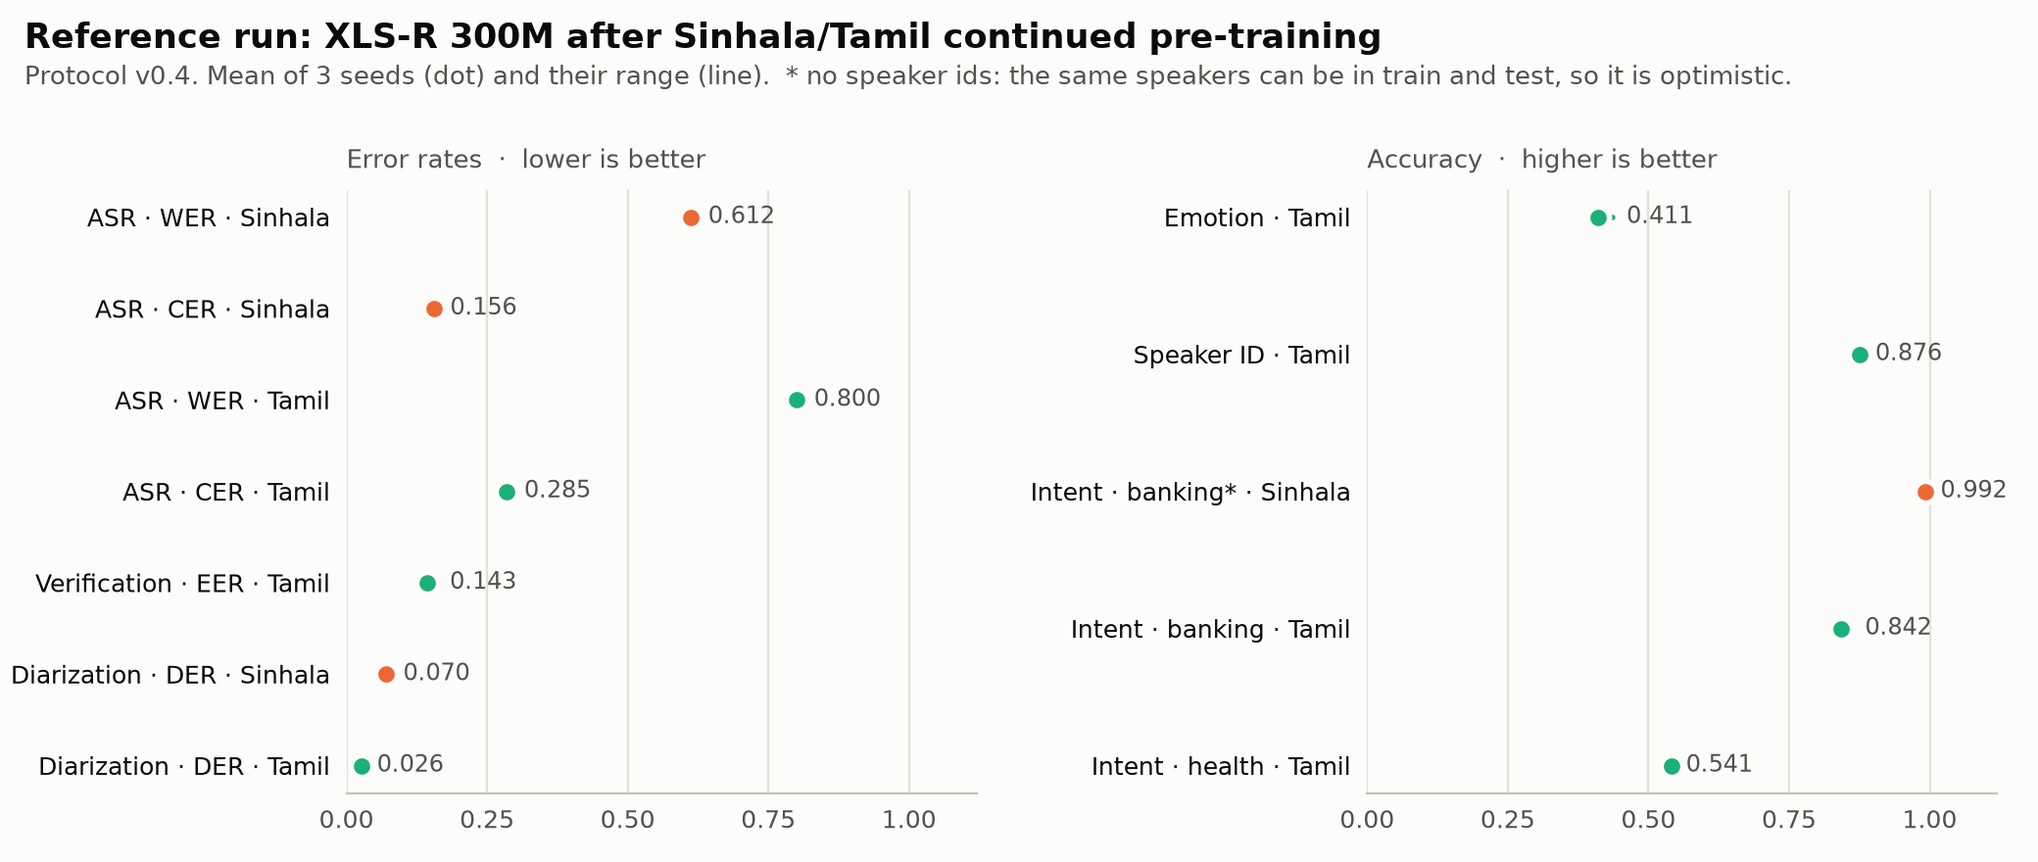
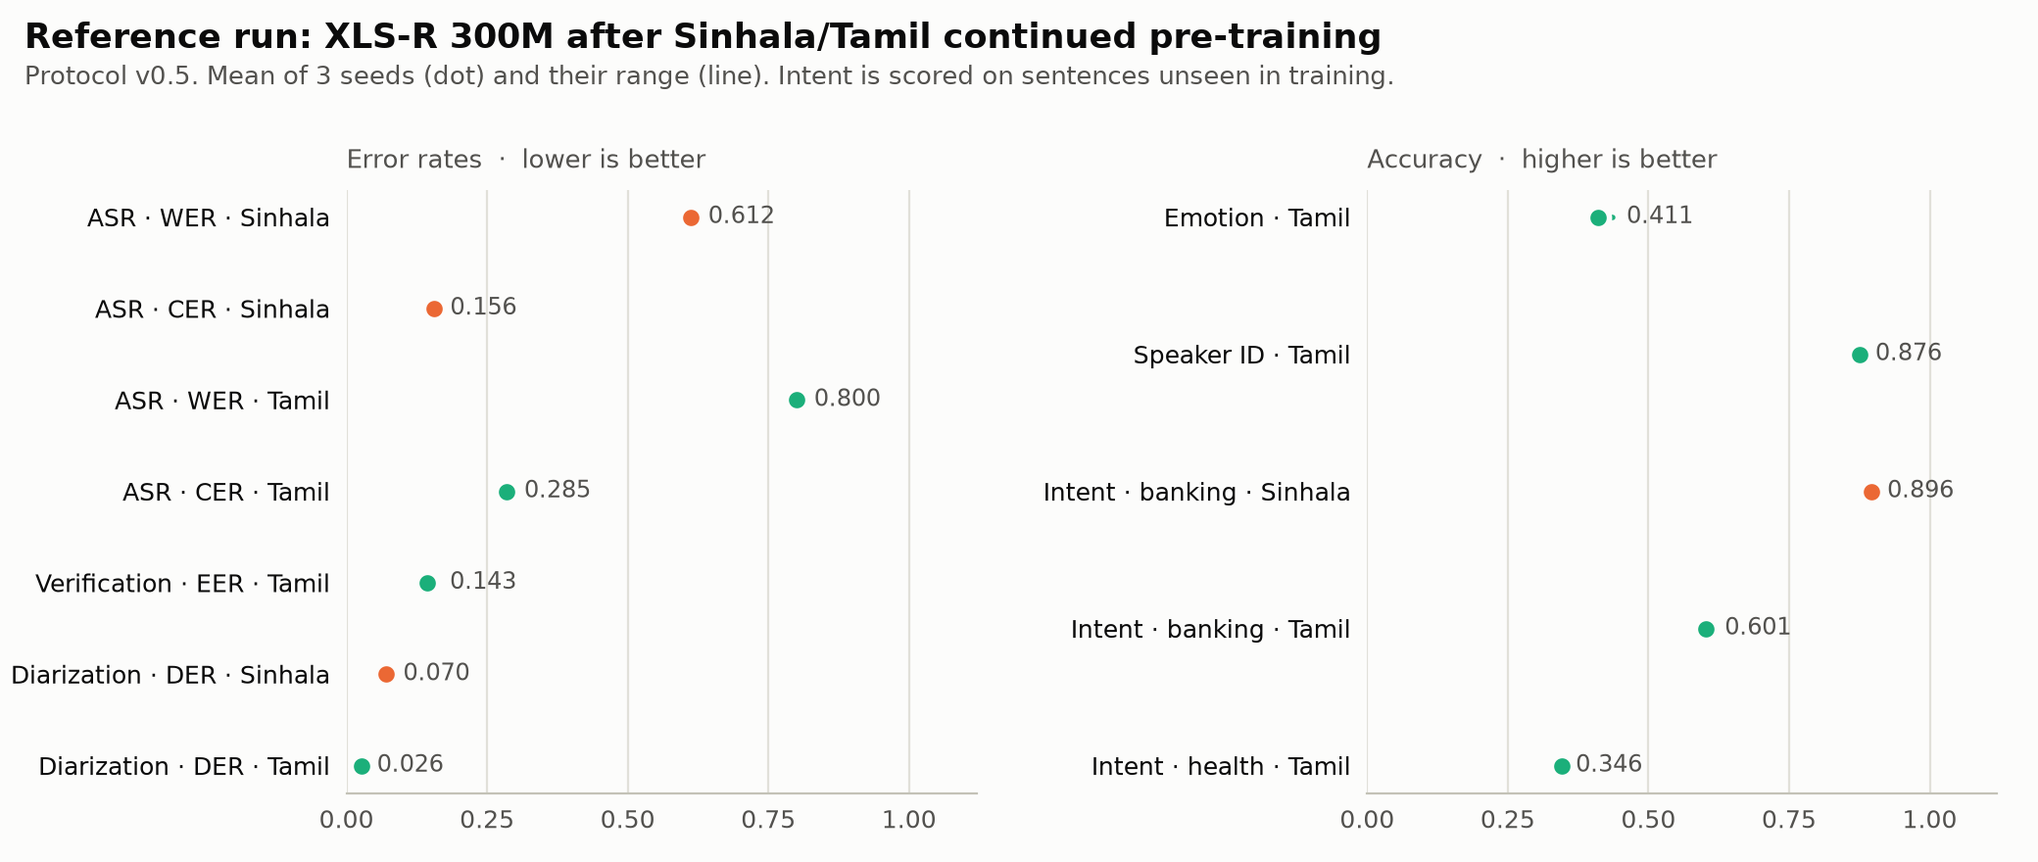
docs: protocol v0.5 reference results and sentence-disjoint intent splits; release 0.5.0
Reference run (adapted XLS-R 300M) now combines v0.3 (seven tasks), v0.4 (speaker ID)
and v0.5 (intent) results. Intent on unseen sentences: banking Sinhala 0.896 (was
0.992), banking Tamil 0.601 (0.842), health Tamil 0.346 (0.541). Docs describe the
sentence-disjoint folds, the README shows how to carry a model over to v0.5, and the
figures and CSVs are regenerated.

diff --git a/docs/scripts/make_figures.py b/docs/scripts/make_figures.py
@@ -30,7 +30,7 @@ REPO = Path(__file__).resolve().parents[2]
 OUT = REPO / "docs" / "assets"
 TABLES = REPO / "docs" / "results"
 TASKS_CSV = TABLES / "tasks.csv"
-RESULTS_CSV = TABLES / "reference_xlsr300m_copt200h_norm_v0.4.csv"
+RESULTS_CSV = TABLES / "reference_xlsr300m_copt200h_norm_v0.5.csv"
 
 THEMES = {
     "light": dict(surface="#fcfcfb", ink="#0b0b0b", ink2="#52514e", muted="#898781",
@@ -205,7 +205,7 @@ def fig_results(t, theme):
             ("sd_sinhala", "der", "Diarization · DER"), ("sd_tamil", "der", "Diarization · DER")]),
         ("Accuracy  ·  higher is better", [
             ("er_tamil", "accuracy", "Emotion"), ("sid", "accuracy", "Speaker ID"),
-            ("ic_banking_sinhala", "accuracy", "Intent · banking*"), ("ic_banking_tamil", "accuracy", "Intent · banking"),
+            ("ic_banking_sinhala", "accuracy", "Intent · banking"), ("ic_banking_tamil", "accuracy", "Intent · banking"),
             ("ic_health_tamil", "accuracy", "Intent · health")]),
     ]
     fig, axes = plt.subplots(1, 2, figsize=(10.4, 4.4), gridspec_kw=dict(wspace=0.62))
@@ -226,8 +226,7 @@ def fig_results(t, theme):
         ax.set_xticks([0, 0.25, 0.5, 0.75, 1.0])
         ax.set_title(heading, loc="left", fontsize=9.5, color=t["ink2"], pad=8)
     title(fig, t, "Reference run: XLS-R 300M after Sinhala/Tamil continued pre-training",
-          "Protocol v0.4. Mean of 3 seeds (dot) and their range (line).  * no speaker ids: the same speakers can be in train "
-          "and test, so it is optimistic.")
+          "Protocol v0.5. Mean of 3 seeds (dot) and their range (line). Intent is scored on sentences unseen in training.")
     fig.subplots_adjust(left=0.17, right=0.98, top=0.78, bottom=0.08)
     save(fig, "fig2-reference-results", theme)
 

diff --git a/README.md b/README.md
@@ -7,7 +7,7 @@ Ten tasks across six families, leak-checked splits, standard downstream heads, a
 
 [![Python](https://img.shields.io/badge/python-3.12-3776AB?logo=python&logoColor=white)](#installation)
 [![PyTorch](https://img.shields.io/badge/PyTorch-2.14%20·%20CUDA%2013.0-EE4C2C?logo=pytorch&logoColor=white)](#installation)
-[![Protocol](https://img.shields.io/badge/protocol-v0.4-2a78d6)](docs/protocol.md)
+[![Protocol](https://img.shields.io/badge/protocol-v0.5-2a78d6)](docs/protocol.md)
 [![Data](https://img.shields.io/badge/data-DVC%20·%20DagsHub-13ADC7?logo=dvc&logoColor=white)](docs/data.md)
 [![License: MIT](https://img.shields.io/badge/license-MIT-green)](LICENSE)
 
@@ -50,9 +50,9 @@ copy of one, can be benchmarked with a single command.
 | Speaker verification | `asv_tamil` | Tamil | SLCeleb | 18,202 clips · 66.8 h | 89 train · 40 test | 37,720 trials, unseen speakers | EER |
 | Speaker diarization | `sd_sinhala` | Sinhala | SiTa | 60 recordings · 10.0 h | 1–10 per recording | recording-disjoint, 24/12/24 | DER |
 | | `sd_tamil` | Tamil | SiTa | 14 recordings · 2.0 h | 2–6 per recording | recording-disjoint, 6/3/5 | DER |
-| Intent classification | `ic_banking_sinhala` | Sinhala | banking intents | 7,588 clips · 6.8 h | not recorded | stratified train/dev/test | accuracy, macro-F1 |
-| | `ic_banking_tamil` | Tamil | banking intents | 400 clips · 0.4 h | 40 | speaker-disjoint 5-fold CV | accuracy, macro-F1 |
-| | `ic_health_tamil` | Tamil | health intents | 1,453 clips · 2.0 h | 100 | speaker-disjoint 5-fold CV | accuracy, macro-F1 |
+| Intent classification | `ic_banking_sinhala` | Sinhala | banking intents | 7,588 clips · 6.8 h | not recorded | sentence-disjoint 5-fold CV | accuracy, macro-F1 |
+| | `ic_banking_tamil` | Tamil | banking intents | 400 clips · 0.4 h | 40 | sentence-disjoint 5-fold CV | accuracy, macro-F1 |
+| | `ic_health_tamil` | Tamil | health intents | 1,453 clips · 2.0 h | 100 | sentence-disjoint 5-fold CV | accuracy, macro-F1 |
 
 Dataset sources, licences and per-task details are in **[docs/tasks.md](docs/tasks.md)**.
 Three tasks in `data/` are not run, each for a data-quality reason; see
@@ -95,12 +95,12 @@ seeds, feature caching, hyperparameters and leakage checks.
 
 <picture>
   <source media="(prefers-color-scheme: dark)" srcset="docs/assets/fig2-reference-results-dark.png">
-  <img alt="Reference run of XLS-R 300M after continued pre-training on 200 h of Sinhala and Tamil, protocol v0.4. Error rates: ASR WER 0.612 Sinhala and 0.800 Tamil, CER 0.156 and 0.285, verification EER 0.143, diarization DER 0.070 Sinhala and 0.026 Tamil. Accuracy: emotion 0.411, speaker ID 0.876, intent banking 0.992 Sinhala and 0.842 Tamil, intent health 0.541." src="docs/assets/fig2-reference-results-light.png">
+  <img alt="Reference run of XLS-R 300M after continued pre-training on 200 h of Sinhala and Tamil, protocol v0.5. Error rates: ASR WER 0.612 Sinhala and 0.800 Tamil, CER 0.156 and 0.285, verification EER 0.143, diarization DER 0.070 Sinhala and 0.026 Tamil. Accuracy: emotion 0.411, speaker ID 0.876, intent banking 0.896 Sinhala and 0.601 Tamil, intent health 0.346." src="docs/assets/fig2-reference-results-light.png">
 </picture>
 
 **XLS-R 300M after continued pre-training** on 200 h of Sinhala and Tamil
 ([Model-Training-Pipeline](https://github.com/EchoVerge-Labs/Model-Training-Pipeline),
-checkpoint 9000), **protocol v0.4**, 3 seeds:
+checkpoint 9000), **protocol v0.5**, 3 seeds:
 
 | Task | Language | Metric | Mean ± s.d. |
 |---|---|---|---|
@@ -111,16 +111,15 @@ checkpoint 9000), **protocol v0.4**, 3 seeds:
 | Speaker verification | Tamil | EER ↓ | 0.143 ± 0.016 |
 | Speaker diarization | Sinhala | DER ↓ | 0.070 ± 0.007 |
 | Speaker diarization | Tamil | DER ↓ | 0.026 ± 0.003 |
-| Intent · banking | Sinhala | accuracy ↑ | 0.992 ± 0.002 \* |
-| Intent · banking | Tamil | accuracy ↑ | 0.842 ± 0.017 |
-| Intent · health | Tamil | accuracy ↑ | 0.541 ± 0.000 |
+| Intent · banking | Sinhala | accuracy ↑ / macro-F1 ↑ | 0.896 ± 0.003 / 0.855 ± 0.000 |
+| Intent · banking | Tamil | accuracy ↑ / macro-F1 ↑ | 0.601 ± 0.008 / 0.465 ± 0.001 |
+| Intent · health | Tamil | accuracy ↑ / macro-F1 ↑ | 0.346 ± 0.000 / 0.334 ± 0.001 |
 
-\* No speaker information exists for this dataset, so the same speakers can appear in train
-and test, which flatters the score.
+Intent is scored on sentences never heard in training (v0.5).
 
 These are reference numbers for one model. All ten models benchmarked so far (five frozen
 encoders and their continued-pre-training counterparts) are compared in the
-[`slsb-v0.4` experiment on DagsHub](https://dagshub.com/EchoVerge-LABS/SLSB-benchmark/experiments),
+[`slsb-v0.5` experiment on DagsHub](https://dagshub.com/EchoVerge-LABS/SLSB-benchmark/experiments),
 one row per model. Scores from different protocol versions are not comparable. Every number
 above is read from [`docs/results/`](docs/results/); see [docs/results.md](docs/results.md).
 
@@ -129,7 +128,7 @@ above is read from [`docs/results/`](docs/results/); see [docs/results.md](docs/
 ### Installation
 
 ```bash
-pip install git+https://github.com/EchoVerge-Labs/SLSB-benchmark.git@v0.4.0
+pip install git+https://github.com/EchoVerge-Labs/SLSB-benchmark.git@v0.5.0
 # or, from a clone, with test and lint tools
 pip install -e ".[dev]"
 ```
@@ -181,9 +180,9 @@ experiment table is the comparison table:
 
 ```bash
 export DAGSHUB_USER=<user> DAGSHUB_TOKEN=<token>
-python scripts/log_results.py results/v0.4/wavlm_large \
+python scripts/log_results.py results/v0.5/wavlm_large \
     --name wavlm-large --kind frozen --family wavlm --base-model microsoft/wavlm-large
-python scripts/log_results.py results/v0.4/xlsr300m_copt200h_norm \
+python scripts/log_results.py results/v0.5/xlsr300m_copt200h_norm \
     --name xlsr300m-copt200h-norm --kind adapted --family xlsr \
     --base-model facebook/wav2vec2-xls-r-300m --checkpoint 9000 --pretrain-hours 200
 ```
@@ -191,14 +190,16 @@ python scripts/log_results.py results/v0.4/xlsr300m_copt200h_norm \
 A model already logged under a protocol is refused unless `--replace` is given. Prefer this
 over `slsb run --mlflow-uri`, which logs one run per task and seed.
 
-**Moving a model from v0.3 to v0.4** needs only a speaker-ID re-run (v0.4 changed nothing
-else); `--carry-over` copies the other nine tasks from the model's `slsb-v0.3` run:
+**Moving a model to the next protocol** needs only a re-run of the tasks it changed;
+`--carry-over` copies the other tasks from the model's run under the previous protocol.
+v0.4 changed only speaker ID (carried over from `slsb-v0.3`), v0.5 only the three intent
+tasks (carried over from `slsb-v0.4`, so log v0.4 first):
 
 ```bash
-slsb run --upstream <model> --tasks sid --seeds 0,1,2 --data-dir data --params params.yaml \
-         --out results/v0.4/<folder>_sid
-python scripts/log_results.py results/v0.4/<folder>_sid --carry-over \
-    --name <same name as in slsb-v0.3> --kind ... --family ... --base-model ...
+slsb run --upstream <model> --tasks ic --seeds 0,1,2 --data-dir data --params params.yaml \
+         --out results/v0.5/<folder>_ic
+python scripts/log_results.py results/v0.5/<folder>_ic --carry-over \
+    --name <same name as in slsb-v0.4> --kind ... --family ... --base-model ...
 ```
 
 ## Repository layout
@@ -214,7 +215,7 @@ python scripts/log_results.py results/v0.4/<folder>_sid --carry-over \
 │   ├── metrics/, utils/       # WER/CER/EER/accuracy, datasets and splits, MLflow logging
 ├── data_prep/                 # builds data/ from each source; make_splits.py writes split_v2.json
 ├── data.dvc                   # pointer to the versioned data/ on DagsHub
-├── params.yaml                # upstream + downstream-head hyperparameters (the v0.4 protocol)
+├── params.yaml                # upstream + downstream-head hyperparameters (the v0.5 protocol)
 ├── configs/tasks/             # one card per task family
 ├── docs/                      # protocol, tasks, data, results; figures and their source CSVs
 ├── tests/                     # unit and protocol tests (no GPU, data or network needed)
@@ -247,8 +248,9 @@ python scripts/log_results.py results/v0.4/<folder>_sid --carry-over \
   single speaker, so no speaker-disjoint split) and `er_sinhala` (broken source metadata).
 - **Several test sets are small:** Tamil diarization has 5 test recordings, and Tamil ASR
   has 5 test speakers. Their scores move more between seeds and between models.
-- **`ic_banking_sinhala` has no speaker information,** so its split is random and its
-  score is optimistic.
+- **Intent test sets are unseen sentences, not unseen speakers.** Since v0.5 every intent
+  fold holds out whole prompts, so the same person can read in train and test
+  (`ic_banking_sinhala` records no speakers at all).
 - **No pre-training contamination check yet.** Nothing verifies that an upstream never
   saw a test clip during pre-training. SLCeleb is YouTube audio, so YouTube-based
   pre-training corpora could overlap with it.
@@ -275,7 +277,7 @@ and BibTeX from it.
              S. A. Talagala and Uthayasanker Thayasivam},
   title   = {{SLSB}: {Sinhala} \& {Lankan-Tamil} Speech Benchmark},
   url     = {https://github.com/EchoVerge-Labs/SLSB-benchmark},
-  version = {0.4.0},
+  version = {0.5.0},
   year    = {2026}
 }
 ```

diff --git a/docs/results.md b/docs/results.md
@@ -5,9 +5,10 @@
 **Upstream:** XLS-R 300M (`facebook/wav2vec2-xls-r-300m`) after continued pre-training on
 200 h of Sinhala and Tamil with normalised audio, in
 [Model-Training-Pipeline](https://github.com/EchoVerge-Labs/Model-Training-Pipeline),
-checkpoint 9000. **Protocol** v0.4, **seeds** 0, 1, 2, on one NVIDIA GB10 GPU. Nine tasks
-were run under v0.3 (slsb 0.3.0); speaker identification, the only task v0.4 changed, was
-re-run under v0.4 (slsb 0.4.0). A full run takes about 2 hours.
+checkpoint 9000. **Protocol** v0.5, **seeds** 0, 1, 2, on one NVIDIA GB10 GPU. Seven tasks
+were run under v0.3 (slsb 0.3.0), speaker identification under v0.4 (slsb 0.4.0) and the
+three intent tasks under v0.5 (slsb 0.5.0); each later protocol changed only the tasks it
+re-ran. A full run takes about 2 hours.
 
 <picture>
   <source media="(prefers-color-scheme: dark)" srcset="assets/fig2-reference-results-dark.png">
@@ -27,25 +28,24 @@ re-run under v0.4 (slsb 0.4.0). A full run takes about 2 hours.
 | Speaker verification | Tamil | EER ↓ | 0.143 ± 0.016 |
 | Speaker diarization | Sinhala | DER ↓ | 0.070 ± 0.007 |
 | Speaker diarization | Tamil | DER ↓ | 0.026 ± 0.003 |
-| Intent · banking | Sinhala | Accuracy ↑ | 0.992 ± 0.002 \* |
-| Intent · banking | Sinhala | Macro-F1 ↑ | 0.992 ± 0.002 \* |
-| Intent · banking | Tamil | Accuracy ↑ | 0.842 ± 0.017 |
-| Intent · banking | Tamil | Macro-F1 ↑ | 0.827 ± 0.018 |
-| Intent · health | Tamil | Accuracy ↑ | 0.541 ± 0.000 |
-| Intent · health | Tamil | Macro-F1 ↑ | 0.530 ± 0.001 |
+| Intent · banking | Sinhala | Accuracy ↑ | 0.896 ± 0.003 |
+| Intent · banking | Sinhala | Macro-F1 ↑ | 0.855 ± 0.000 |
+| Intent · banking | Tamil | Accuracy ↑ | 0.601 ± 0.008 |
+| Intent · banking | Tamil | Macro-F1 ↑ | 0.465 ± 0.001 |
+| Intent · health | Tamil | Accuracy ↑ | 0.346 ± 0.000 |
+| Intent · health | Tamil | Macro-F1 ↑ | 0.334 ± 0.001 |
 
-\* Optimistic: no speaker information, so the same speakers can be in train and test.
-
-Per-seed values are in [`results/reference_xlsr300m_copt200h_norm_v0.4.csv`](results/reference_xlsr300m_copt200h_norm_v0.4.csv).
-The other models are compared on DagsHub, in the `slsb-v0.4` experiment.
+Per-seed values are in [`results/reference_xlsr300m_copt200h_norm_v0.5.csv`](results/reference_xlsr300m_copt200h_norm_v0.5.csv).
+The other models are compared on DagsHub, in the `slsb-v0.5` experiment.
 
 ### Reading these numbers
 
 - **Diarization DER is almost entirely speaker confusion.** With oracle speech regions,
   missed speech is about 1% (overlap) and false alarm is 0.
-- **Intent · banking Sinhala is near ceiling** (0.97–0.99 for every model benchmarked) and
-  separates models poorly; speaker identification, near ceiling under v0.3, is no longer
-  (0.84–0.89 under v0.4).
+- **No task is at ceiling any more.** Speaker identification scored 0.99+ for every model
+  under v0.3 (test clips shared videos with training) and intent · banking Sinhala 0.97–0.99
+  under v0.4 (test sentences were in training). On unseen videos and unseen sentences they
+  now score 0.84–0.89 and about 0.90.
 - **Run-to-run variation.** ASR's BiLSTM uses non-deterministic GPU kernels, so re-running
   the same seed moves WER by about ±0.01. Differences smaller than that, or than the
   seed s.d., should not be read as real.
@@ -59,6 +59,7 @@ The other models are compared on DagsHub, in the `slsb-v0.4` experiment.
 | v0.1 → anything later | **No.** v0.1 trained one linear layer for 10 epochs with no dev set, and its splits leaked (Sinhala ASR test speakers in training; verification trained on its own test speakers). |
 | v0.2 → v0.3 | **No.** v0.3 layer-normalises every upstream layer, which changes every task's input. |
 | v0.3 → v0.4 | **Yes, except speaker identification**, which v0.4 splits by unseen videos. Every other task is identical, which is why v0.4 runs may carry them over (`log_results.py --carry-over`). |
+| v0.4 → v0.5 | **Yes, except the three intent tasks**, which v0.5 splits by unseen sentences. Every other task is identical and carried over from `slsb-v0.4`. |
 
 See the [changelog](../CHANGELOG.md) for each version's changes.
 
@@ -74,5 +75,6 @@ python docs/scripts/make_figures.py --refresh results/<run> [results/<rerun>] --
 ```
 
 `--refresh` takes one or more run directories; a later one replaces an earlier one task by
-task. The reference run combines `results/v0.3/xlsr300m_copt200h_norm` (nine tasks) and
-`results/v0.4/xlsr300m_copt200h_norm_sid` (speaker identification).
+task. The reference run combines `results/v0.3/xlsr300m_copt200h_norm` (seven tasks),
+`results/v0.4/xlsr300m_copt200h_norm_sid` (speaker identification) and
+`results/v0.5/xlsr300m_copt200h_norm_ic` (intent).

diff --git a/docs/protocol.md b/docs/protocol.md
@@ -1,4 +1,4 @@
-# Protocol (v0.4)
+# Protocol (v0.5)
 
 How SLSB turns a frozen encoder into a set of scores. Everything here is implemented in
 [`src/slsb/`](../src/slsb), and every hyperparameter lives in [`params.yaml`](../params.yaml).
@@ -55,8 +55,8 @@ with the data. Every upstream and every run seed uses the same partition.
 | Task | Partition | Rule |
 |---|---|---|
 | ASR | train / dev / test, 70 / 10 / 20 | speaker-disjoint. `asr_sinhala`'s speakers come from OpenSLR-52's `utt_spk_text.tsv`; `asr_tamil`'s v0.1 test set is kept because it was already speaker-disjoint |
-| Emotion, intent with speakers | 5 folds | speaker-disjoint. For fold *k*: test = fold *k*, dev = fold *k*+1, train = the rest; reported as the mean over folds |
-| Intent without speakers | train / dev / test | stratified random (`ic_banking_sinhala`, flagged `random_stratified_no_speaker_ids`) |
+| Emotion | 5 folds | speaker-disjoint. For fold *k*: test = fold *k*, dev = fold *k*+1, train = the rest; reported as the mean over folds |
+| Intent | 5 folds, as for emotion | **sentence**-disjoint (v0.5): each intent's prompts are dealt round-robin over the folds, so a test prompt is never heard in training or dev selection. Speakers may recur across folds |
 | Speaker identification | train / dev / test | closed set: every speaker is a class. Split by source **video**: per speaker, ~20% of its videos are test and one is dev, so test clips never share a recording session with training (v0.4) |
 | Speaker verification | trial list = test | trained on SLCeleb dev speakers, none of them in the trials; dev trials (5,400, balanced) come from 9 held-out training speakers |
 | Speaker diarization | train / dev / test, 40 / 20 / 40 | recording-disjoint |

diff --git a/KNOWN_ISSUES.md b/KNOWN_ISSUES.md
@@ -56,13 +56,14 @@ pre-training audio. SLCeleb (ASV/SID) is YouTube audio, so a continued-pretraini
 corpus built from YouTube could contain the same videos. An audio-fingerprint
 check against each pre-training set is still to be built.
 
-## `ic_banking_sinhala` — no speaker ids
+## Intent classification — speakers may recur across folds
 
-The Sinhala banking intent data names files by recording timestamp only, so its
-split cannot be speaker-disjoint (`random_stratified_no_speaker_ids`): the same
-person can appear in train and test, which flatters its accuracy. Recording
-sessions are no substitute -- most hold a single intent. The banking archives'
-licence allows academic / research use only, no commercial use.
+The intent folds are sentence-disjoint (v0.5), not speaker-disjoint. The Sinhala
+banking data names files by recording timestamp only, so it has no speaker ids at
+all; the Tamil sets do, but holding out both sentences and speakers would leave
+too little training data (Banking Tamil: 400 clips). Speaker identity predicts
+intent only weakly there. There is no Sinhala health-intent dataset. The banking
+archives' licence allows academic / research use only, no commercial use.
 
 ## Task status summary
 
@@ -73,4 +74,4 @@ licence allows academic / research use only, no commercial use.
 | `asv` | `asv_tamil` validated (speaker-disjoint); `asv_sinhala` excluded — corrupt SLCeleb Sinhala data |
 | `er` | validated on `er_tamil` only (speaker-disjoint 5-fold) |
 | `sd` | validated, oracle speech regions (see above) |
-| `ic` | validated; `ic_banking_sinhala` has no speaker ids (random split, optimistic) |
+| `ic` | validated; sentence-disjoint folds since v0.5, speakers may recur |

diff --git a/docs/tasks.md b/docs/tasks.md
@@ -88,13 +88,20 @@ clipped to the audio.
 | Prompts | 39 fixed sentences | 31 fixed sentences | 160 phrases |
 | Clips | 7,588 (6.8 h) | 400 (0.4 h) | 1,453 (2.0 h) |
 | Speakers | not recorded | 40 | 100 |
-| Evaluation | stratified train / dev / test | speaker-disjoint 5-fold | speaker-disjoint 5-fold |
+| Evaluation | sentence-disjoint 5-fold | sentence-disjoint 5-fold | sentence-disjoint 5-fold |
 
 Built by [`data_prep/prep_intent.py`](../data_prep/prep_intent.py). Clips without a label in
 the source CSVs are skipped (74 and 187), identical audio is kept once, and two
-Sinhala clips whose copies carry different intents are dropped. Because
-`ic_banking_sinhala` has no speaker information, the same person can appear in train and
-test; its accuracy is optimistic and is marked as such wherever it is reported.
+Sinhala clips whose copies carry different intents are dropped.
+
+Each dataset is a small set of fixed prompts, each read many times (Banking Sinhala:
+147–225 readings per sentence). Until v0.4 every test sentence was also in training, so
+the task partly measured recognising a memorised sentence: `ic_banking_sinhala` scored
+0.97–0.99 for every model. Since v0.5 the folds are **sentence-disjoint**: the prompts
+of a test fold are never heard in training, so a model has to map unseen wording to its
+intent. Speakers may recur across folds (Banking Sinhala records none); a speaker's
+identity predicts their intent only weakly in Tamil (30% vs 25% majority for banking,
+17% vs 7% for health).
 
 ---
 

diff --git a/CHANGELOG.md b/CHANGELOG.md
@@ -3,6 +3,30 @@
 Scores are only comparable within one protocol version. Every result records `protocol`
 and `slsb_version`.
 
+## v0.5.0 · 2026-10-08
+
+**Only the three intent classification tasks changed.** Every other task's split, code and
+settings are identical to v0.4, so their scores carry over unchanged; only `ic` must be
+re-run.
+
+### Changed: protocol
+
+- **Intent classification is split by sentence.** Each intent dataset is a small set of
+  fixed prompts read many times (Banking Sinhala: 39 sentences, 147–225 readings each), and
+  until v0.4 every test sentence was also in training, so the head could score by
+  recognising the memorised prompt: Banking Sinhala scored 0.97–0.99 for every model. Each
+  intent's sentences are now dealt round-robin over 5 folds (test fold *k*, dev fold *k*+1,
+  train the rest), for `ic_banking_sinhala`, `ic_banking_tamil` and `ic_health_tamil`.
+  Speakers may recur across folds. Adapted XLS-R 300M moves from 0.992 / 0.842 / 0.541 to
+  0.896 / 0.601 / 0.346 (banking Sinhala / banking Tamil / health Tamil).
+- `make_splits.py` asserts that no sentence is in two folds and that every intent is in the
+  training part of every fold.
+
+### Added
+
+- `data/ic_*/sentences.csv` (filename, sentence), written by `prep_intent.py`.
+- `log_results.py --carry-over` for v0.5 copies the unchanged tasks from `slsb-v0.4`.
+
 ## v0.4.0 · 2026-10-08
 
 **Only speaker identification changed.** Every other task's split, code and settings are

diff --git a/docs/data.md b/docs/data.md
@@ -7,7 +7,7 @@ Each git tag pins the matching data version through `data.dvc`.
 
 ```bash
 git clone git@github.com:EchoVerge-Labs/SLSB-benchmark.git && cd SLSB-benchmark
-git checkout v0.4.0
+git checkout v0.5.0
 dvc pull
 ```
 
